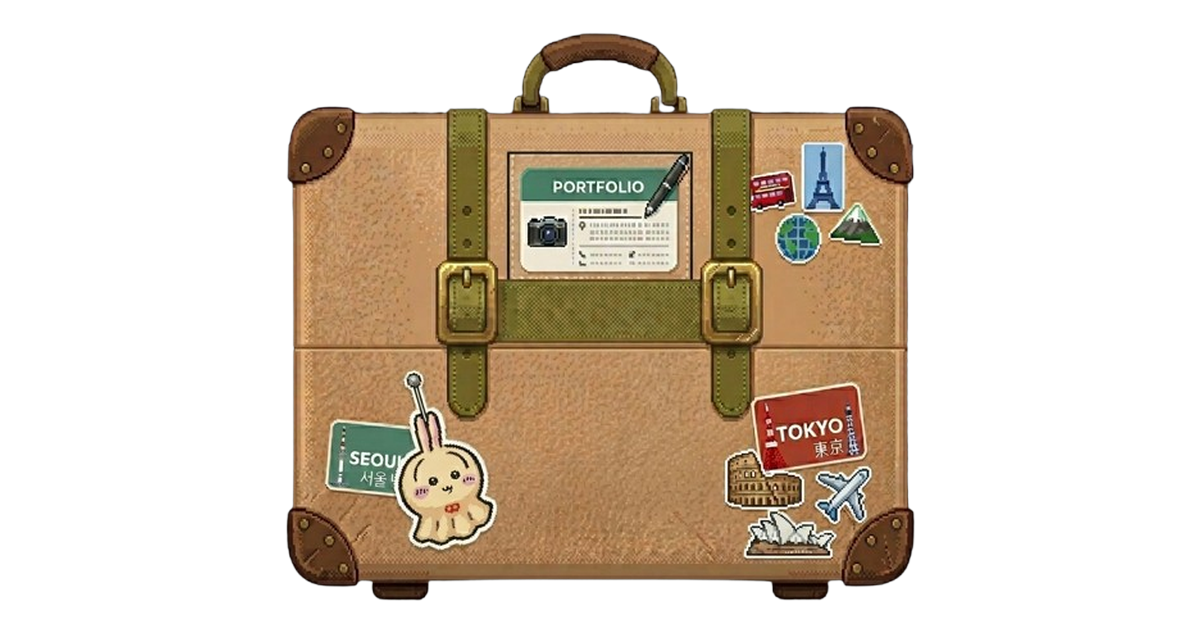
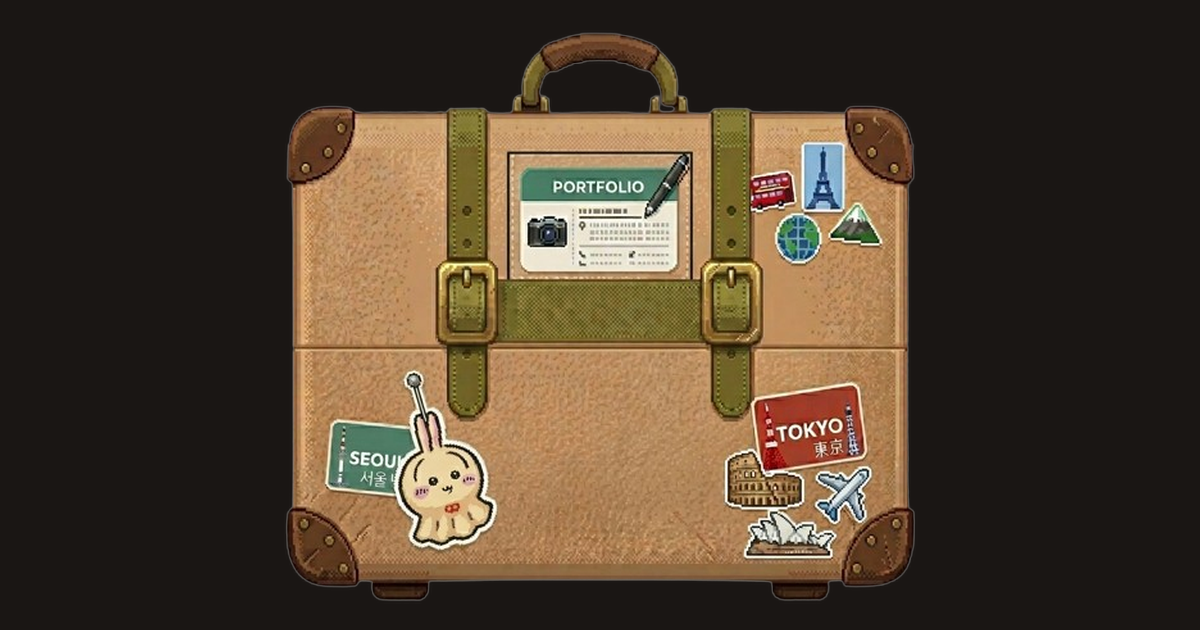
디자인: OG 이미지 어두운 배경으로 복원 및 설명 줄바꿈 적용
Made-with: Cursor

diff --git a/index.html b/index.html
@@ -10,7 +10,7 @@
     <!-- Open Graph -->
     <meta property="og:type" content="website" />
     <meta property="og:title" content="노이노의 여행가방" />
-    <meta property="og:description" content="가방을 두드려 안을 들여다보세요. — 저를 담은 물건들이 들어있습니다." />
+    <meta property="og:description" content="가방을 두드려 안을 들여다보세요.&#10;저를 담은 물건들이 들어있습니다." />
     <meta property="og:image" content="https://portopolio-box.vercel.app/og-image.png" />
     <meta property="og:image:width" content="1200" />
     <meta property="og:image:height" content="630" />
@@ -19,7 +19,7 @@
     <!-- Twitter Card -->
     <meta name="twitter:card" content="summary_large_image" />
     <meta name="twitter:title" content="노이노의 여행가방" />
-    <meta name="twitter:description" content="가방을 두드려 안을 들여다보세요. — 저를 담은 물건들이 들어있습니다." />
+    <meta name="twitter:description" content="가방을 두드려 안을 들여다보세요.&#10;저를 담은 물건들이 들어있습니다." />
     <meta name="twitter:image" content="https://portopolio-box.vercel.app/og-image.png" />
 
     <link rel="preconnect" href="https://fonts.googleapis.com" />
